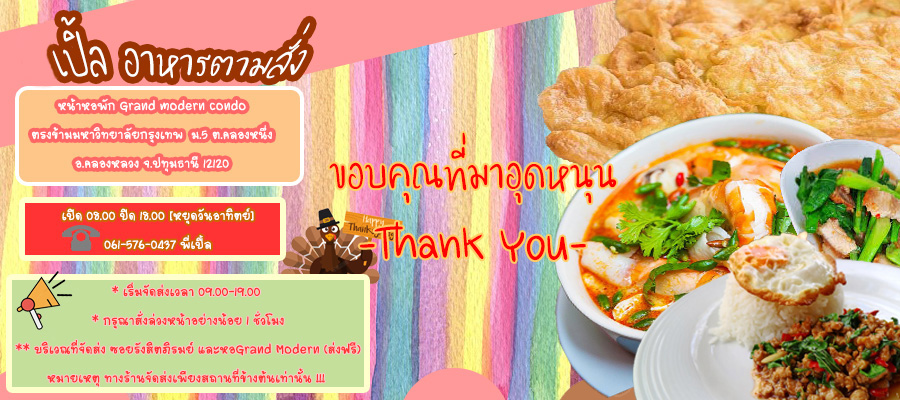
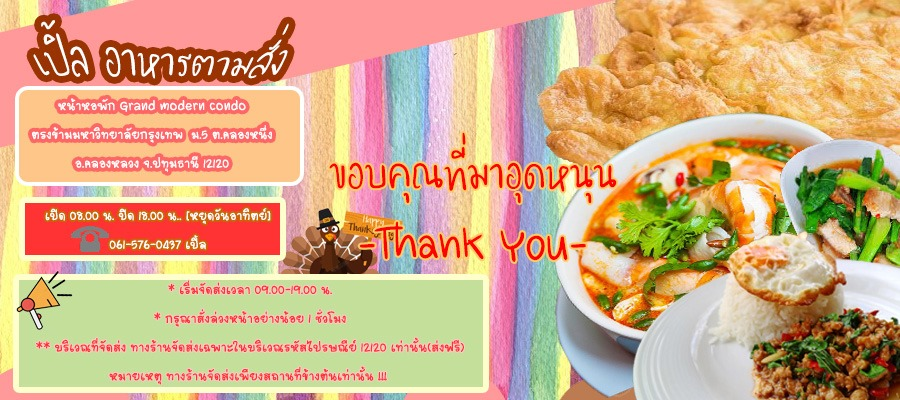
:

diff --git a/policy.php b/policy.php
@@ -31,8 +31,8 @@
             &nbsp&nbsp&nbsp&nbsp&nbsp&nbspกรณีต้องการยกเลิกรายการอาหารที่สั่ง และโต๊ะที่จอง กรุณาติดต่อพนักงาน โทร : 0615760437 <br>หรือ E-mail : Aimaroy_99@gmail.com
 
             <h4>นโยบายการสั่งอาหาร</h4>
-            &nbsp&nbsp&nbsp&nbsp&nbsp&nbspร้านเปิ้ลอาหารตามสั่ง ยินดีรับการสั่งอาหารจากลูกค้าทุกท่าน ภายใต้เงื่อนไขดังต่อไปนี้
-            - สามารถสั่งอาหารได้ไม่เกิน 250 จำนวน ในแต่ละชนิดของอาหาร<br>
+            &nbsp&nbsp&nbsp&nbsp&nbsp&nbspร้านเปิ้ลอาหารตามสั่ง ยินดีรับการสั่งอาหารจากลูกค้าทุกท่าน ภายใต้เงื่อนไขดังต่อไปนี้ <br>
+            - สามารถสั่งอาหารได้ในจำนวนไม่เกิน 250 ในแต่ละชนิดของอาหาร<br>
             - ในการสั่งออนไลน์ ต้องสั่งล่วงหน้าอย่างน้อย 1 ชม. โดยสามารถทำการสั่งซื้อผ่านเว็บไซต์ได้ตลอด 24 ชม.<br>
             - ในการสั่งหน้าร้าน สามารถเข้าไปที่หน้าร้านได้ทุกวัน เวลา 08.00-18.00 น. ยกเว้นวันอาทิตย์ เนื่องจากเป็นวันหยุดของทางร้าน
 

diff --git a/contact.php b/contact.php
@@ -25,7 +25,7 @@
     <div class="col">
       <h1 class="page-header text-left">ติดต่อเรา</h1>
       <div class="row">
-        <div class="col-md-offset-1 col-md-4 text-center">
+        <div class="col-md-offset1 col-md-4 text-center">
           <img src="images/foodorder.jpg" width="250" class="img-fluid img-thumbnail" alt="Responsive image">
         </div>
         <div class="col-md-7">
